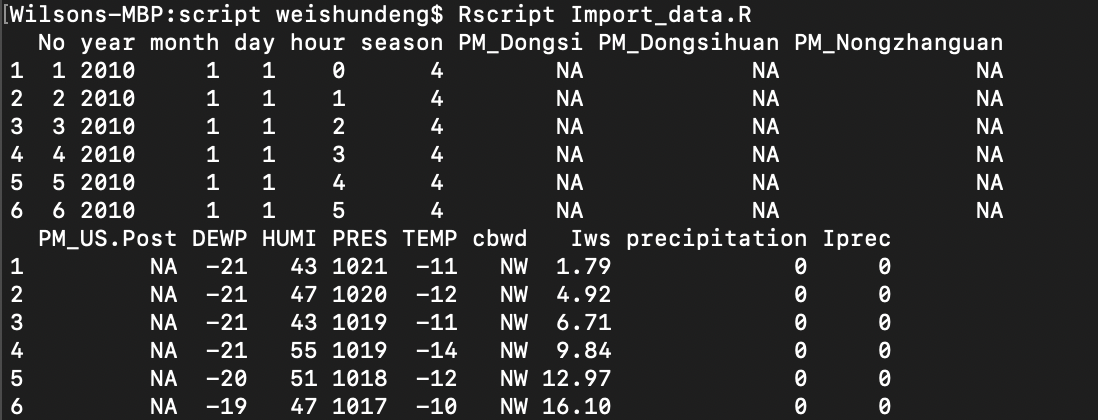
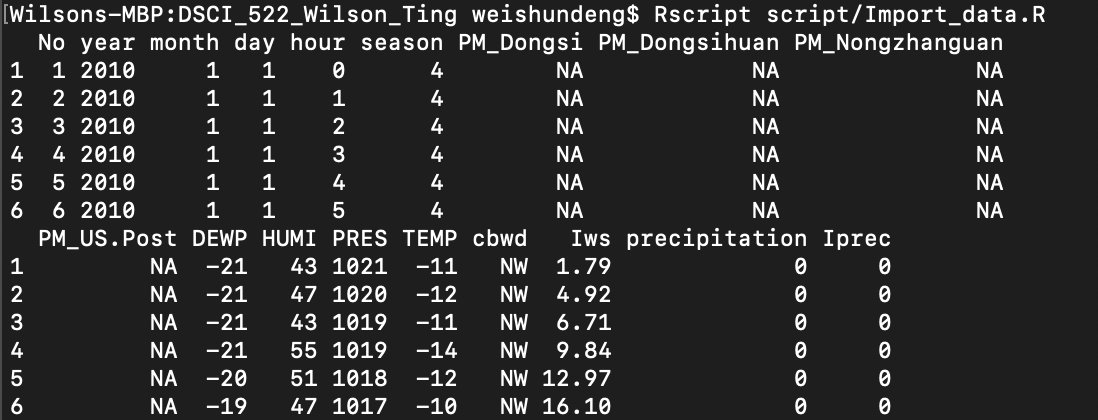
Modify rscript and screenshot

Changed region(s): [[0.1548, 0.0, 0.9599, 0.0619]]

diff --git a/README.md b/README.md
@@ -1,5 +1,5 @@
 # DSCI_522_Wilson_Ting
-Data analysis project for DSCI 522
+Data analysis project for DSCI 522 - Analyzing PM 2.5 of Beijing and Shanghai
 
 ## Team members
 
